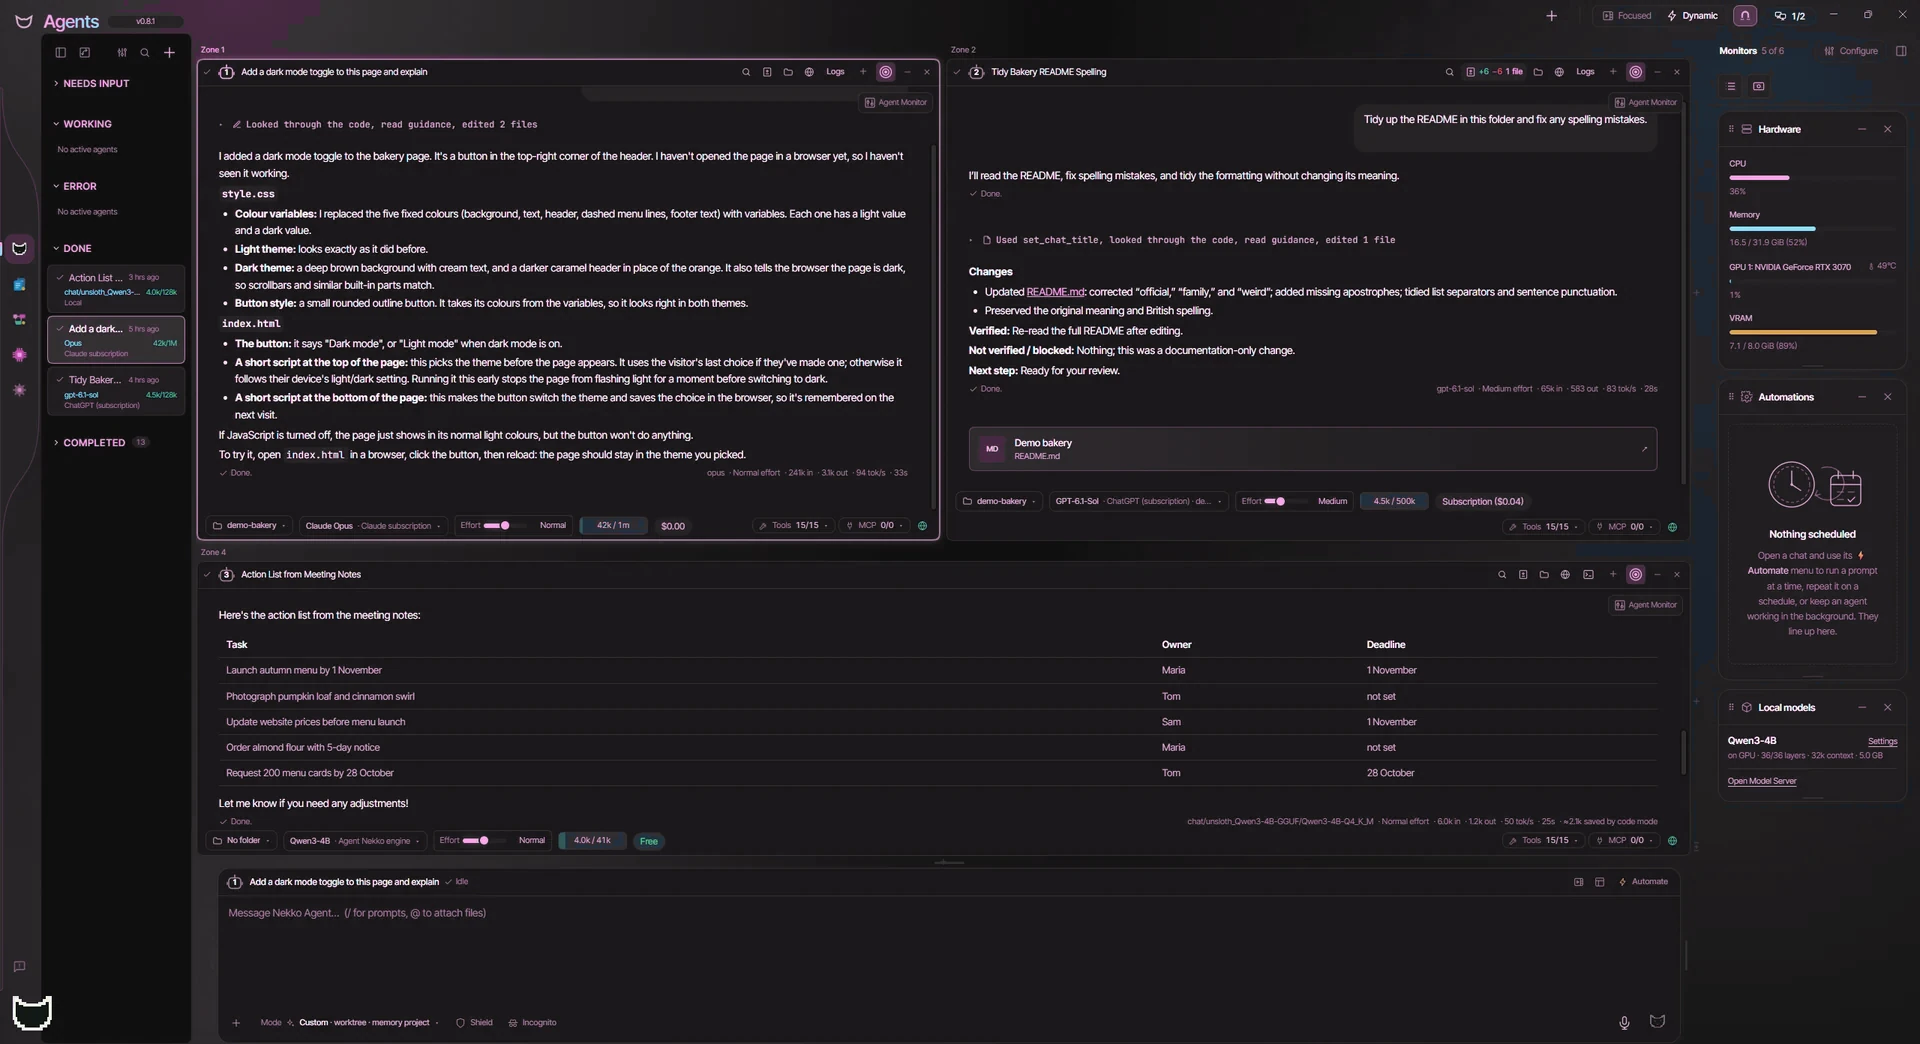
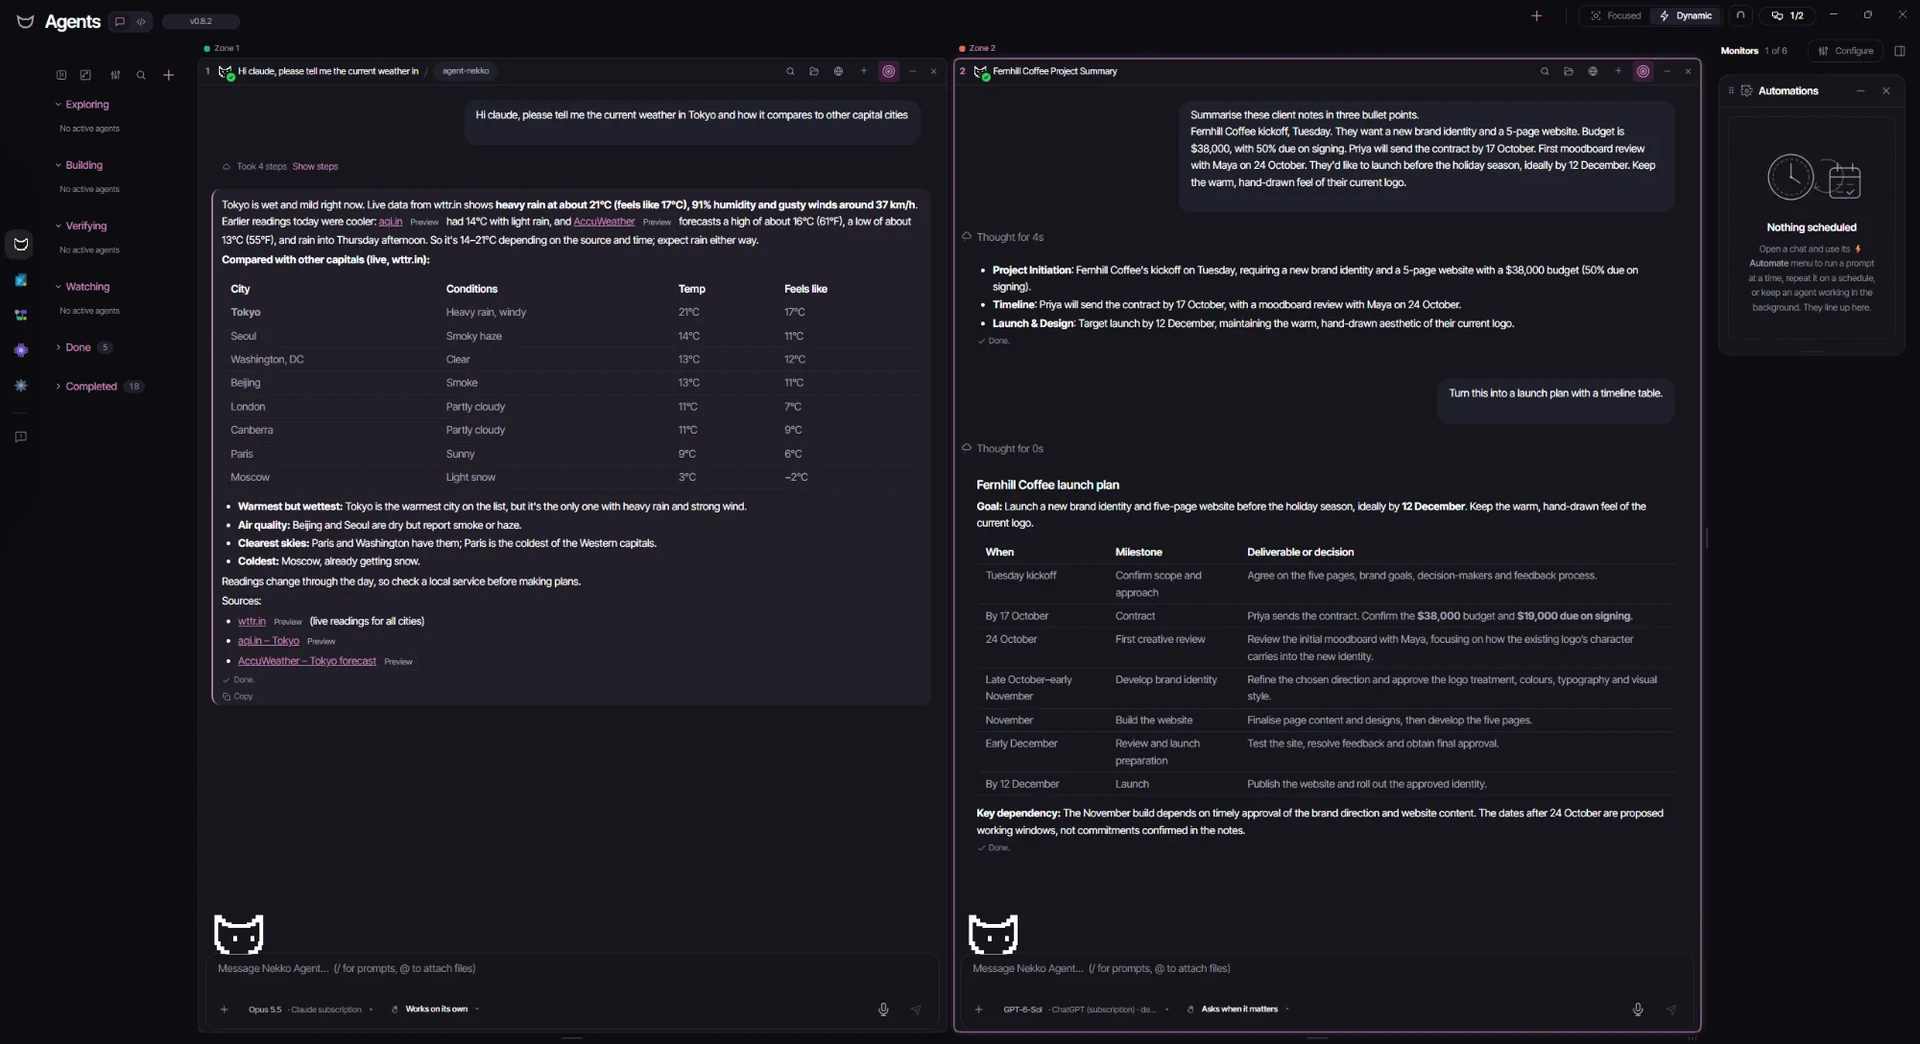
Website hero: real Dark and Light Nekko screenshots
The hero shot was an older capture recoloured plum, so it no longer matched
the app. Replace both looks with fresh captures (2000x1088, plus 1920 wide),
describe what they now show, and bump the cache version.

diff --git a/apps/website/index.html b/apps/website/index.html
@@ -209,8 +209,8 @@
       <!-- ===== app window mock rises out of the hero band ===== -->
       <section class="showcase reveal" aria-label="Illustration of the workspace, not a live session">
                 <button class="media media-hero" type="button" aria-label="Nekko Agent workspace screenshot. Opens larger.">
-          <img class="hero-shot hero-shot-dark" src="media/hero-dark-1920.webp?v=2" srcset="media/hero-dark-1920.webp 1920w, media/hero-dark.webp 2560w" sizes="(max-width: 960px) 100vw, 960px" width="2560" height="1392" alt="Nekko Agent with three agents working side by side: Claude Opus adding a dark mode toggle, ChatGPT tidying a README, and a local Qwen model turning meeting notes into an action table" fetchpriority="high" decoding="async">
-          <img class="hero-shot hero-shot-light" src="media/hero-colour-1920.webp?v=2" srcset="media/hero-colour-1920.webp 1920w, media/hero-colour.webp 2560w" sizes="(max-width: 960px) 100vw, 960px" width="2560" height="1392" alt="Nekko Agent with three agents working side by side: Claude Opus adding a dark mode toggle, ChatGPT tidying a README, and a local Qwen model turning meeting notes into an action table" loading="lazy" decoding="async">
+          <img class="hero-shot hero-shot-dark" src="media/hero-dark-1920.webp?v=3" srcset="media/hero-dark-1920.webp?v=3 1920w, media/hero-dark.webp?v=3 2000w" sizes="(max-width: 960px) 100vw, 960px" width="2000" height="1088" alt="Nekko Agent with two agents working side by side: Claude Opus comparing Tokyo's weather with other capitals, and ChatGPT turning client notes into a launch plan with a timeline table" fetchpriority="high" decoding="async">
+          <img class="hero-shot hero-shot-light" src="media/hero-colour-1920.webp?v=3" srcset="media/hero-colour-1920.webp?v=3 1920w, media/hero-colour.webp?v=3 2000w" sizes="(max-width: 960px) 100vw, 960px" width="2000" height="1088" alt="Nekko Agent with two agents working side by side: Claude Opus comparing Tokyo's weather with other capitals, and ChatGPT turning client notes into a launch plan with a timeline table" loading="lazy" decoding="async">
         </button>
       </section>
 
